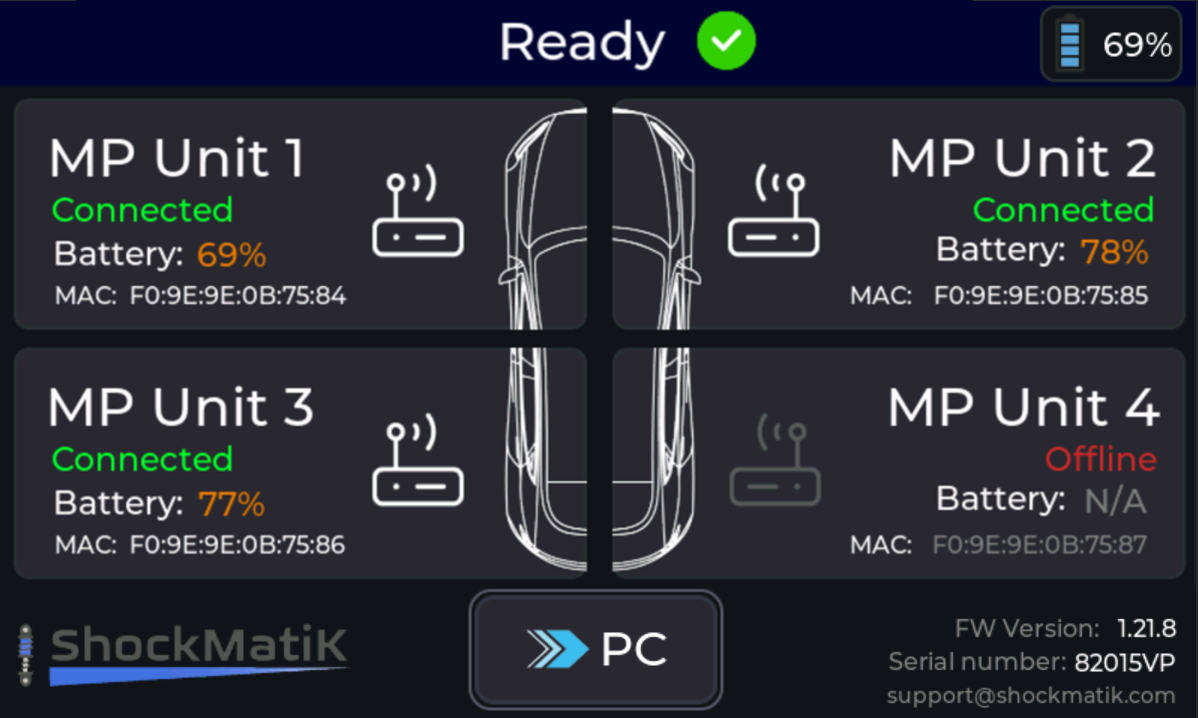
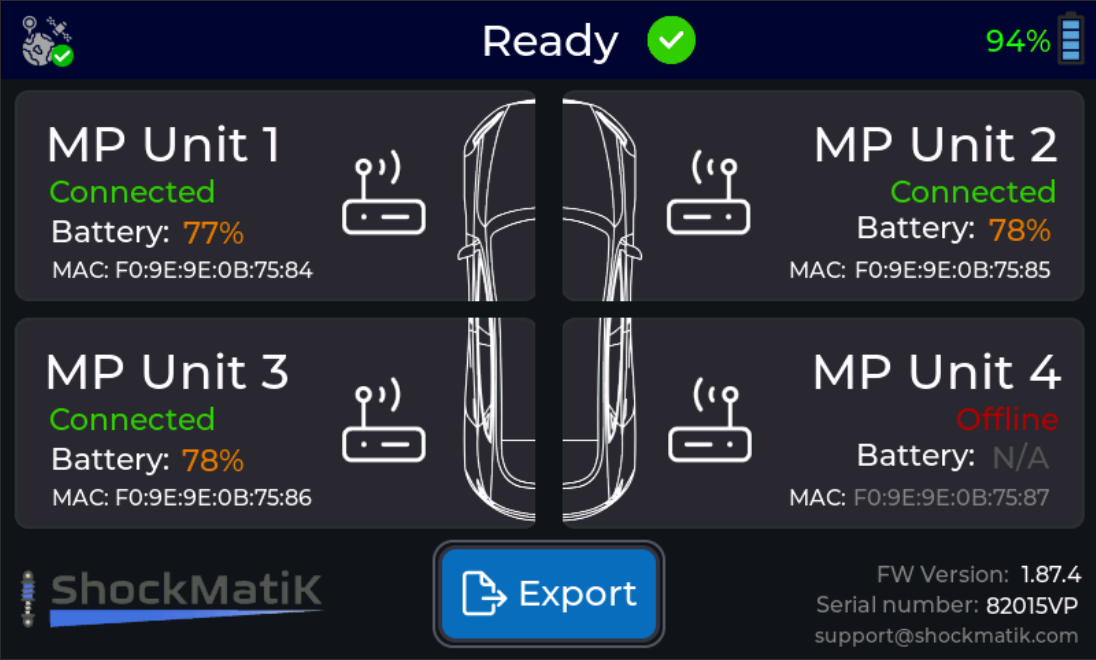
Added GPS functionality info

diff --git a/index.html b/index.html
@@ -1,7 +1,5 @@
 <!DOCTYPE html>
 <html lang="cs" data-theme="dark">
-<!-- Co tu hledas, loupezniku? -->
-
 <head>
     <meta charset="UTF-8">
     <meta name="viewport" content="width=device-width, initial-scale=1.0">
@@ -20,7 +18,7 @@
     <meta property="og:url" content="https://shockmatik.com/">
     <meta property="og:type" content="website">
     <meta name="twitter:card" content="summary_large_image">
-    <meta name="twitter:image" content="https://shockmatik.com/telemetry_med_2.png">
+    <meta name="twitter:image" content="https://shockmatik.com/telemetry_med_3.png">
     <script data-goatcounter="https://shockmatik.goatcounter.com/count"
         async src="//gc.zgo.at/count.js"></script>
 </head>
@@ -59,9 +57,8 @@
                 </div>
                 <div class="inner-box hover-trigger" onclick="showHardwareDetail(2)">
                     <h3>Centrální řídicí jednotka</h3>
-                    <p style="font-size: 0.95rem;">Bezdrátově řídí a synchronizuje všechny měřicí jednotky. Nasbíraná
-                        data následně přenese do počítače pomocí <strong>USB</strong> nebo bezdrátově přes
-                        <strong>Wi-Fi</strong>.
+                    <p style="font-size: 0.95rem;">Bezdrátově řídí a synchronizuje všechny měřicí jednotky. Díky <strong>25Hz GPS</strong> modulu navíc precizně zaznamenává polohu a rychlost na trati. Nasbíraná
+                        data následně přenese do PC pomocí <strong>USB</strong> nebo <strong>Wi-Fi</strong>.
                     </p>
                     <svg class="expand-arrow" xmlns="http://www.w3.org/2000/svg" viewBox="0 0 24 24" fill="none"
                         stroke="currentColor" stroke-width="2" stroke-linecap="round" stroke-linejoin="round">
@@ -105,6 +102,10 @@
                                 <tr>
                                     <th scope="row" style="width: 40%;">Dotykový LCD Displej</th>
                                     <td>4,3" 800x480</td>
+                                </tr>
+                                <tr>
+                                    <th scope="row">GPS / Lokace</th>
+                                    <td>Integrovaný 25Hz GNSS přijímač</td>
                                 </tr>
                                 <tr>
                                     <th scope="row">Integrovaná paměť</th>
@@ -163,10 +164,7 @@
                 </div>
                 <div class="inner-box hover-trigger trigger-2" onclick="showSoftwareDetail(2)">
                     <h3>Telemetry Analyzer</h3>
-                    <p style="font-size: 0.95rem;">Integrovaný analytický nástroj pro intuitivní vizualizaci dat a
-                        jejich vyhodnocení. Disponuje měřícími kurzory s automatickým výpočtem frekvence kmitání
-                        odpružené i neodpružené hmoty a pokročilými matematickými metodami pro eliminaci nepodstatných
-                        vibrací.
+                    <p style="font-size: 0.95rem;">Integrovaný analytický nástroj pro intuitivní vizualizaci dat. Nabízí GPS mapování se satelitními snímky, precizní analýzu zrychlení samotných tlumičů, výpočty frekvence kmitání a pokročilé DSP filtry.
                     </p>
                     <svg class="expand-arrow" xmlns="http://www.w3.org/2000/svg" viewBox="0 0 24 24" fill="none"
                         stroke="currentColor" stroke-width="2" stroke-linecap="round" stroke-linejoin="round">
@@ -214,43 +212,37 @@
                         <table class="striped">
                             <tbody>
                                 <tr>
-                                    <th scope="row" style="width: 40%;">Vyhlazení dat</th>
-                                    <td>Aplikace matematických filtrů pro odstranění šumu a vibrací</td>
+                                    <th scope="row" style="width: 40%;">GPS & Mapy</th>
+                                    <td>Zobrazení trasy na satelitních snímcích, rychlostní profil, G-Force heatmapa</td>
+                                </tr>
+                                <tr>
+                                    <th scope="row">Vyhodnocení dynamiky</th>
+                                    <td>Zrychlení pístnice tlumiče a duální kurzory pro výpočet frekvence (v Hz)</td>
+                                </tr>
+                                <tr>
+                                    <th scope="row">Vyhlazení dat</th>
+                                    <td>Aplikace matematických filtrů (Butterworth, Savitzky-Golay) pro odstranění šumu</td>
                                 </tr>
                                 <tr>
                                     <th scope="row">Vizualizace</th>
-                                    <td>Interaktivní grafy s možností zoomování a posouvání na ose X/Y</td>
-                                </tr>
-                                <tr>
-                                    <th scope="row">Měřicí nástroje</th>
-                                    <td>Duální kurzory s automatickým výpočtem frekvence kmitání (v Hz)</td>
-                                </tr>
-                                <tr>
-                                    <th scope="row">Práce s daty</th>
-                                    <td>Snadné přepínání mezi senzory a zobrazení zrychlení šasi</td>
+                                    <td>Interaktivní grafy s možností zoomování a snadného přepínání mezi senzory</td>
                                 </tr>
                             </tbody>
                         </table>
                     </figure>
-                    <p>Jádro celého softwaru, optimalizované pro rychlou a přehlednou práci se surovými daty z trati.
-                        Program vykreslí křivky všech tlumičů do interaktivního grafu, ve kterém se lze volně pohybovat,
-                        přibližovat detaily a zkoumat kritická místa průjezdu (například doskok nebo tvrdé brzdění).</p>
-                    <p>Největším pomocníkem jsou měřicí kurzory. Stačí je umístit na dvě po sobě jdoucí špičky v grafu a
-                        aplikace okamžitě spočítá přesnou frekvenci kmitání odpružené i neodpružené hmoty. Pokud je
-                        křivka ze snímačů příliš "chlupatá" od vysokofrekvenčních vibrací (nerovnosti asfaltu, motor),
-                        lze aplikovat integrované matematické vyhlazení. Graf se tím vyčistí a jasně ukáže pouze
-                        podstatný pohyb samotného tlumiče.</p>
+                    <p>Jádro celého softwaru, optimalizované pro rychlou a přehlednou práci se surovými daty z trati. Z naměřeného zdvihu aplikace automaticky počítá <strong>okamžité zrychlení samotného tlumiče</strong>, takže v grafech přesně vidíte, jak rychle pístnice reaguje na kritické rázy (např. rolety, doskoky nebo prokluz kol při prudkém startu). Pro vyčištění křivky od nežádoucího šumu lze aplikovat pokročilé integrované DSP filtry.</p>
+                    <p>Zásadní funkcí je plná integrace <strong>GPS</strong> telemetrie. Celou jízdu si můžete nechat vykreslit přímo na satelitní mapě s interaktivní <strong>heatmapou</strong>, která barevně indikuje okamžitou rychlost. Grafy telemetrie jsou navíc časově synchronizované s indikátorem pozice na mapě.</p>
                 </div>
             </div>
 
             <div class="image-stack sw-image-stack is-active show-sw-default">
-                <img src="telemetry_med_2.png" alt="Ukázka Telemetry Analyzer" class="telemetry-image img-default"
+                <img src="telemetry_med_3.png" alt="Ukázka Telemetry Analyzer" class="telemetry-image img-default"
                     onclick="openModal(this.src)">
 
                 <img src="SM_Suite.png" alt="Zpracování a export dat" class="telemetry-image img-1"
                     onclick="openModal(this.src)">
 
-                <img src="telemetry_med_2.png" alt="Ukázka Telemetry Analyzer" class="telemetry-image img-2"
+                <img src="telemetry_med_3.png" alt="Ukázka Telemetry Analyzer" class="telemetry-image img-2"
                     onclick="openModal(this.src)">
             </div>
             <div class="buttons-container" style="text-align: center; margin-top: 40px; margin-bottom: 10px;">
@@ -281,7 +273,5 @@
     <script src="script.js"></script>
 
 </body>
-
-<!-- Nasels? -->
 
 </html>

diff --git a/en/index.html b/en/index.html
@@ -19,7 +19,7 @@
     <meta property="og:url" content="https://shockmatik.com/en/">
     <meta property="og:type" content="website">
     <meta name="twitter:card" content="summary_large_image">
-    <meta name="twitter:image" content="https://shockmatik.com/telemetry_med_2.png">
+    <meta name="twitter:image" content="https://shockmatik.com/telemetry_med_3.png">
     <script data-goatcounter="https://shockmatik.goatcounter.com/count"
         async src="//gc.zgo.at/count.js"></script>
 </head>
@@ -60,9 +60,7 @@
                 </div>
                 <div class="inner-box hover-trigger" onclick="showHardwareDetail(2)">
                     <h3>Central Control Unit</h3>
-                    <p style="font-size: 0.95rem;">Acts as the wireless hub, synchronizing all measurement units
-                        effortlessly. Collected data is then efficiently transferred to your PC via <strong>USB</strong>
-                        or <strong>Wi-Fi</strong>.</p>
+                    <p style="font-size: 0.95rem;">Acts as the wireless hub, synchronizing all measurement units effortlessly. Equipped with a <strong>25Hz GPS</strong> module, it precisely records track position and speed. Collected data is then efficiently transferred to your PC via <strong>USB</strong> or <strong>Wi-Fi</strong>.</p>
                     <svg class="expand-arrow" xmlns="http://www.w3.org/2000/svg" viewBox="0 0 24 24" fill="none"
                         stroke="currentColor" stroke-width="2" stroke-linecap="round" stroke-linejoin="round">
                         <polyline points="6 9 12 15 18 9"></polyline>
@@ -106,6 +104,10 @@
                                 <tr>
                                     <th scope="row" style="width: 40%;">Touch Interface</th>
                                     <td>4.3" LCD (800x480 resolution)</td>
+                                </tr>
+                                <tr>
+                                    <th scope="row">GPS / Location</th>
+                                    <td>Integrated 25Hz GNSS receiver</td>
                                 </tr>
                                 <tr>
                                     <th scope="row">Onboard Storage</th>
@@ -166,9 +168,7 @@
                 </div>
                 <div class="inner-box hover-trigger trigger-2" onclick="showSoftwareDetail(2)">
                     <h3>Telemetry Analyzer</h3>
-                    <p style="font-size: 0.95rem;">Your primary environment for data visualization. It features
-                        interactive measurement cursors for automatic frequency calculation (sprung/unsprung mass) and
-                        mathematical filtering to isolate critical damper movements from track noise.</p>
+                    <p style="font-size: 0.95rem;">Your primary environment for data visualization. It offers GPS mapping with satellite imagery, precise damper acceleration analysis, oscillation frequency calculations, and advanced DSP filters.</p>
                     <svg class="expand-arrow" xmlns="http://www.w3.org/2000/svg" viewBox="0 0 24 24" fill="none"
                         stroke="currentColor" stroke-width="2" stroke-linecap="round" stroke-linejoin="round">
                         <polyline points="6 9 12 15 18 9"></polyline>
@@ -213,44 +213,37 @@
                         <table class="striped">
                             <tbody>
                                 <tr>
-                                    <th scope="row" style="width: 40%;">Signal Processing</th>
-                                    <td>Mathematical filtering to eliminate high-frequency noise</td>
+                                    <th scope="row" style="width: 40%;">GPS & Maps</th>
+                                    <td>Track visualization on satellite imagery, speed profile, and G-Force heatmap</td>
                                 </tr>
                                 <tr>
-                                    <th scope="row">Visualization Engine</th>
-                                    <td>Interactive plotting with precise X/Y zooming and panning</td>
+                                    <th scope="row">Dynamics Evaluation</th>
+                                    <td>Damper shaft acceleration and dual cursors for frequency calculation (Hz)</td>
                                 </tr>
                                 <tr>
-                                    <th scope="row">Analysis Tools</th>
-                                    <td>Dual cursors with instant oscillation frequency calculation (Hz)</td>
+                                    <th scope="row">Data Smoothing</th>
+                                    <td>Application of mathematical filters (Butterworth, Savitzky-Golay) for noise reduction</td>
                                 </tr>
                                 <tr>
-                                    <th scope="row">Data Perspective</th>
-                                    <td>Toggle between individual damper travel and chassis acceleration</td>
+                                    <th scope="row">Visualization</th>
+                                    <td>Interactive graphs with zooming and easy switching between sensors</td>
                                 </tr>
                             </tbody>
                         </table>
                     </figure>
-                    <p>The Telemetry Analyzer is the core of the suite, optimized for rapid evaluation of raw track
-                        data. It translates suspension movement into clear, interactive graphs. You can easily navigate
-                        the timeline, zoom in on micro-events, and dissect critical sections of a lap, such as a jump
-                        landing or corner entry.</p>
-                    <p>The integrated measurement cursors are invaluable for setup tuning. By snapping them to
-                        consecutive peaks on the graph, the software instantly calculates the exact oscillation
-                        frequency of the suspension. If the raw sensor data is cluttered by engine vibration or rough
-                        tarmac, applying the built-in mathematical smoothing provides a clean curve, highlighting only
-                        the fundamental motion of the damper.</p>
+                    <p>As the core of the suite, the Telemetry Analyzer is built for rapid and intuitive processing of raw track data. The software automatically derives the <strong>instantaneous damper shaft acceleration</strong> directly from suspension travel. This lets you pinpoint exactly how the suspension handles critical events like washboards, heavy jump landings, or wheel spin under hard acceleration. To isolate these crucial movements from track noise, you can easily smooth out the data using our advanced built-in DSP filters.</p>
+                    <p>A major addition to the suite is fully integrated <strong>GPS</strong> telemetry. Your entire session is mapped onto high-resolution satellite imagery, featuring an interactive <strong>heatmap</strong> that visually represents your speed profile across the track. For ultimate context, all telemetry graphs are perfectly time-synced with your live position on the map.</p>
                 </div>
             </div>
 
             <div class="image-stack sw-image-stack is-active show-sw-default">
-                <img src="../telemetry_med_2.png" alt="Telemetry Analyzer Interface" class="telemetry-image img-default"
+                <img src="../telemetry_med_3.png" alt="Telemetry Analyzer Interface" class="telemetry-image img-default"
                     onclick="openModal(this.src)">
 
                 <img src="../SM_Suite.png" alt="Project Manager Overview" class="telemetry-image img-1"
                     onclick="openModal(this.src)">
 
-                <img src="../telemetry_med_2.png" alt="Telemetry Analyzer Interface" class="telemetry-image img-2"
+                <img src="../telemetry_med_3.png" alt="Telemetry Analyzer Interface" class="telemetry-image img-2"
                     onclick="openModal(this.src)">
             </div>
             <div class="buttons-container" style="text-align: center; margin-top: 40px; margin-bottom: 10px;">
